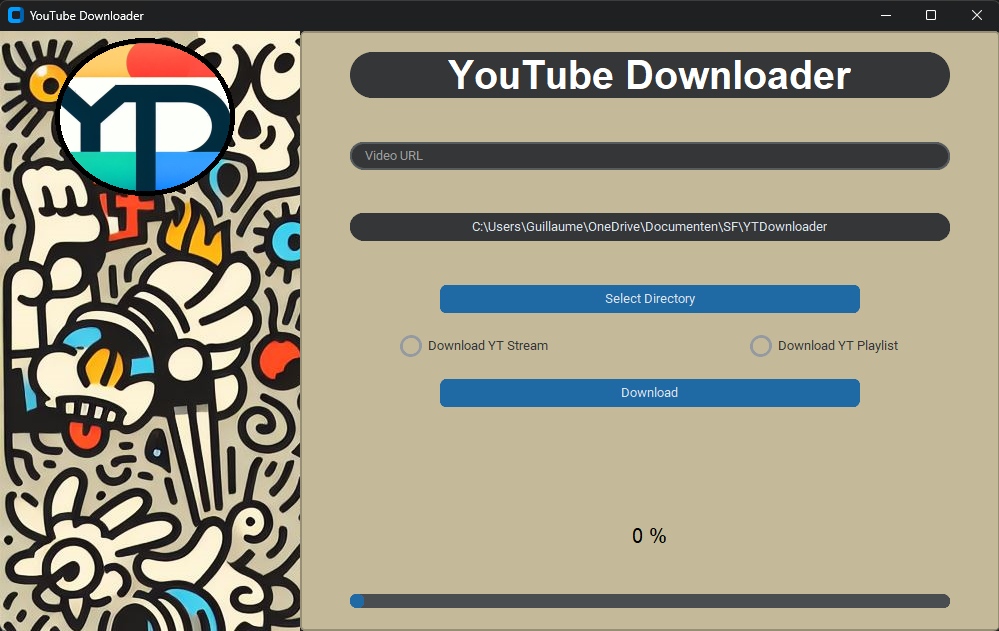
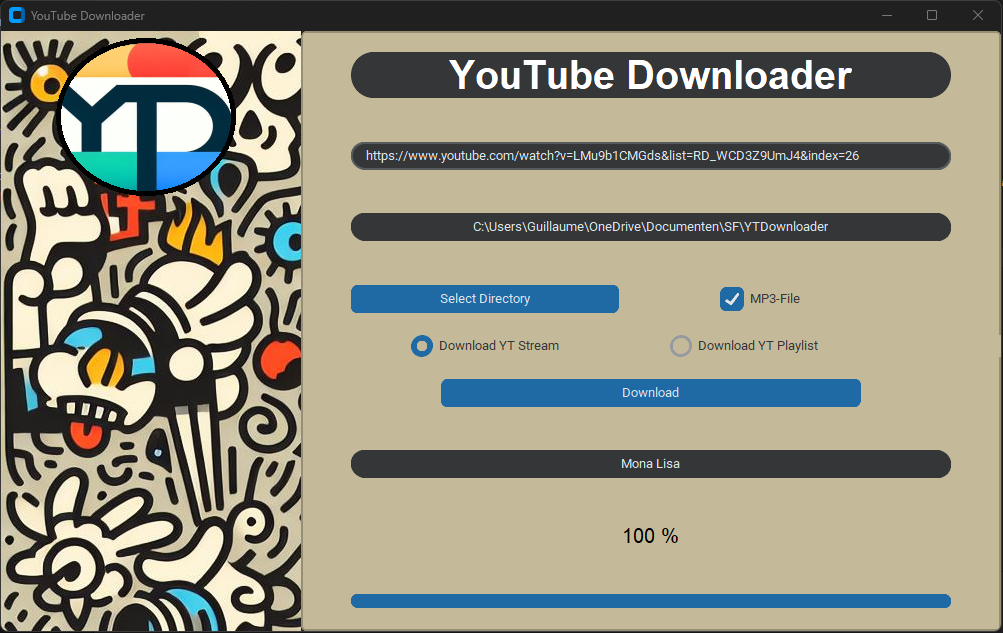
Added an option to convert to MP3 file which is not corrupted

diff --git a/main.py b/main.py
@@ -4,6 +4,7 @@ import customtkinter as ctk
 from pytube import YouTube, Playlist
 from PIL import Image, ImageTk
 import os
+from moviepy.editor import *
 
 ctk.set_appearance_mode("Dark")  # Modes: "System" (standard), "Dark", "Light"
 ctk.set_default_color_theme("blue")
@@ -23,8 +24,7 @@ class App(ctk.CTk):
         # Place the 2 frames on the master window
         self.frame_picture.place(x = 0, y = 0, relwidth = 0.3, relheight = 1)
         self.frame_download.place(relx = 0.3, y = 0, relwidth = 0.7, relheight = 1)
-        
-        
+             
         # How to add an image onto the window
         self.canvas_for_image = tk.Canvas(master = self.frame_picture, bg = 'red', width = 1024, height = 1024, highlightthickness = 0)
         self.canvas_for_image.pack()
@@ -47,8 +47,21 @@ class App(ctk.CTk):
         self.current_dir = os.getcwd()
         self.dir_label = ctk.CTkLabel(master = self.frame_download, text = f"{self.current_dir}", fg_color="#343638", corner_radius = 32)
         self.dir_label.grid(row = 2, column = 0, columnspan = 2, sticky = "ew", padx = 50)
+        
+        # Button to select the directory want to download the MP4/MP3 files
         self.dir_button = ctk.CTkButton(master = self.frame_download, text = 'Select Directory', command = self.get_directory)
-        self.dir_button.grid(row = 3, column = 0, columnspan = 2, sticky = "ew", padx = 140)
+        self.dir_button.grid(row = 3, column = 0, sticky = "ew", padx = 50)
+        
+        # Using a stringvariable to check the value of the box
+        self.check_audio_var = ctk.StringVar(value = 'MP3')
+        # The checkbox for converting the MP4 to MP3 file or not
+        self.convert_audio = ctk.CTkCheckBox(master = self.frame_download, 
+                                             text = 'MP3-File',
+                                             variable = self.check_audio_var,
+                                             onvalue = 'MP3',
+                                             offvalue = 'MP4', 
+                                             text_color = '#343638')
+        self.convert_audio.grid(row = 3, column = 1, sticky = "ew", padx = 50)
         
         #If want to change how radio buttons are shown need to adjust the avoe which the dir label is far too long
         self.radio_var = tk.StringVar()  # Will convert any type of variable into a string
@@ -64,7 +77,7 @@ class App(ctk.CTk):
                                 value = 'Playlist',
                                 variable = self.radio_var,   # Setting the same tk variable for 2nd radio button
                                 text_color = '#343638')
-        self.download_playlist_btn.grid(row = 4, column = 1)
+        self.download_playlist_btn.grid(row = 4, column = 1,sticky = "ew")
 
         self.download_button = ctk.CTkButton(master = self.frame_download, text = 'Download', command = lambda: self.get_url())
         self.download_button.grid(row = 5, column = 0, columnspan = 2, sticky = "ew", padx = 140)
@@ -81,13 +94,15 @@ class App(ctk.CTk):
     
     
     def get_directory(self):
+        # This will open an interactive window where can select the folder want to use to store the files
         filepath = filedialog.askdirectory(initialdir = f"{self.current_dir}", title = "Select direcotry to save downloaded content")
+        # Change the label and the current directory to save the content
         self.dir_label.configure(text = f'{filepath}')
         self.current_dir = filepath
         
         
     def get_url(self):
-        
+        # Check the Radio button to see wether to download a single video or a playlist containing multiple videos
         if self.radio_var.get() == 'Stream':
             # Download the video link
             self.download_vid(self.url_entry.get())
@@ -99,22 +114,32 @@ class App(ctk.CTk):
         # This is to create a YouTube object
         yt = YouTube(link, 
                 on_progress_callback = self.on_progress,  # This is to work with a progress bar
-                #on_complete_callback = complete_func  # After fully downlaoded post-download processing
                 )
         # Link to the URL saved in a variable
         thumbnail = yt.thumbnail_url # Removing everything after '?' results in original image
+        # Folder path to the video file location
+        video_file_path = f"{self.current_dir}/{yt.title}.mp4"
+
+        # Folder path to the audio file location
+        audio_file_path = f"{self.current_dir}/{yt.title}.mp3"
         
         try: 
             # Get the highest resolution
-            yt = yt.streams.get_highest_resolution()
+            stream = yt.streams.get_highest_resolution()
             
             self.finish_label.configure(text = f'{yt.title}', fg_color="#343638", corner_radius = 32)
             # Download the video
-            yt.download(f'{self.current_dir}')
-            
-        
+            stream.download(f'{self.current_dir}')
+
+            # If the checkbox is checked then want the MP3 audio file
+            if self.check_audio_var.get() == 'MP3':
+                # Convert the MP4 file to an MP3 file
+                self.convert_video_to_audio(video_file_path, audio_file_path)
+                # Remove the MP4 file
+                os.remove(video_file_path)
+             
         except:
-            self.finish_label.configure(text = 'There has been error downloading!', fg_color="#343638", corner_radius = 32)
+            self.finish_label.configure(text = 'There has been error downloading!', fg_color="#343638", corner_radius = 32) 
     
     def download_playlist(self, link):
         # This is to create a YouTube Object
@@ -132,12 +157,27 @@ class App(ctk.CTk):
                 if vid_count < total_vids:
                     
                     video = p.videos[vid_count]
+                    
+                    # Folder path to the video file location
+                    video_file_path = f"{self.current_dir}/{video.title}.mp4"
+
+                    # Folder path to the audio file location
+                    audio_file_path = f"{self.current_dir}/{video.title}.mp3"
+                    
                     # Get the highest stream
                     yt_stream = video.streams.get_highest_resolution()
                     # Change the label to title of video being downloaded
                     self.finish_label.configure(text = f'{video.title}', fg_color="#343638", corner_radius = 32)
                     # Downlaod the video
                     yt_stream.download(f'{self.current_dir}')
+                    
+                    # If the checkbox is checked then want the MP3 audio file
+                    if self.check_audio_var.get() == 'MP3':
+                        # Convert the MP4 file to an MP3 file
+                        self.convert_video_to_audio(video_file_path, audio_file_path)
+                        # Remove the MP4 file
+                        os.remove(video_file_path)
+                        
                     # Once download done increment counter
                     vid_count += 1
 
@@ -147,7 +187,7 @@ class App(ctk.CTk):
                 
                     #Schedule the next update after 100 milliseconds
                     self.after(100, update_progress)
-            
+            #Call the function once then it will update automatically
             update_progress()
                 
         except:
@@ -169,7 +209,12 @@ class App(ctk.CTk):
         # The progress bar part >> Value between 0 and 1
         self.progressbar.set(float(perc_complete / 100))
     
-    
+    def convert_video_to_audio(self, mp4, mp3):
+        # Save the MP4 file in a variable, use a function to convert to MP3 >> Close the MP4 file
+        file_to_convert = AudioFileClip(mp4)
+        file_to_convert.write_audiofile(mp3)
+        file_to_convert.close()
+  
 if __name__ == "__main__":      
     app = App()
     app.mainloop()
